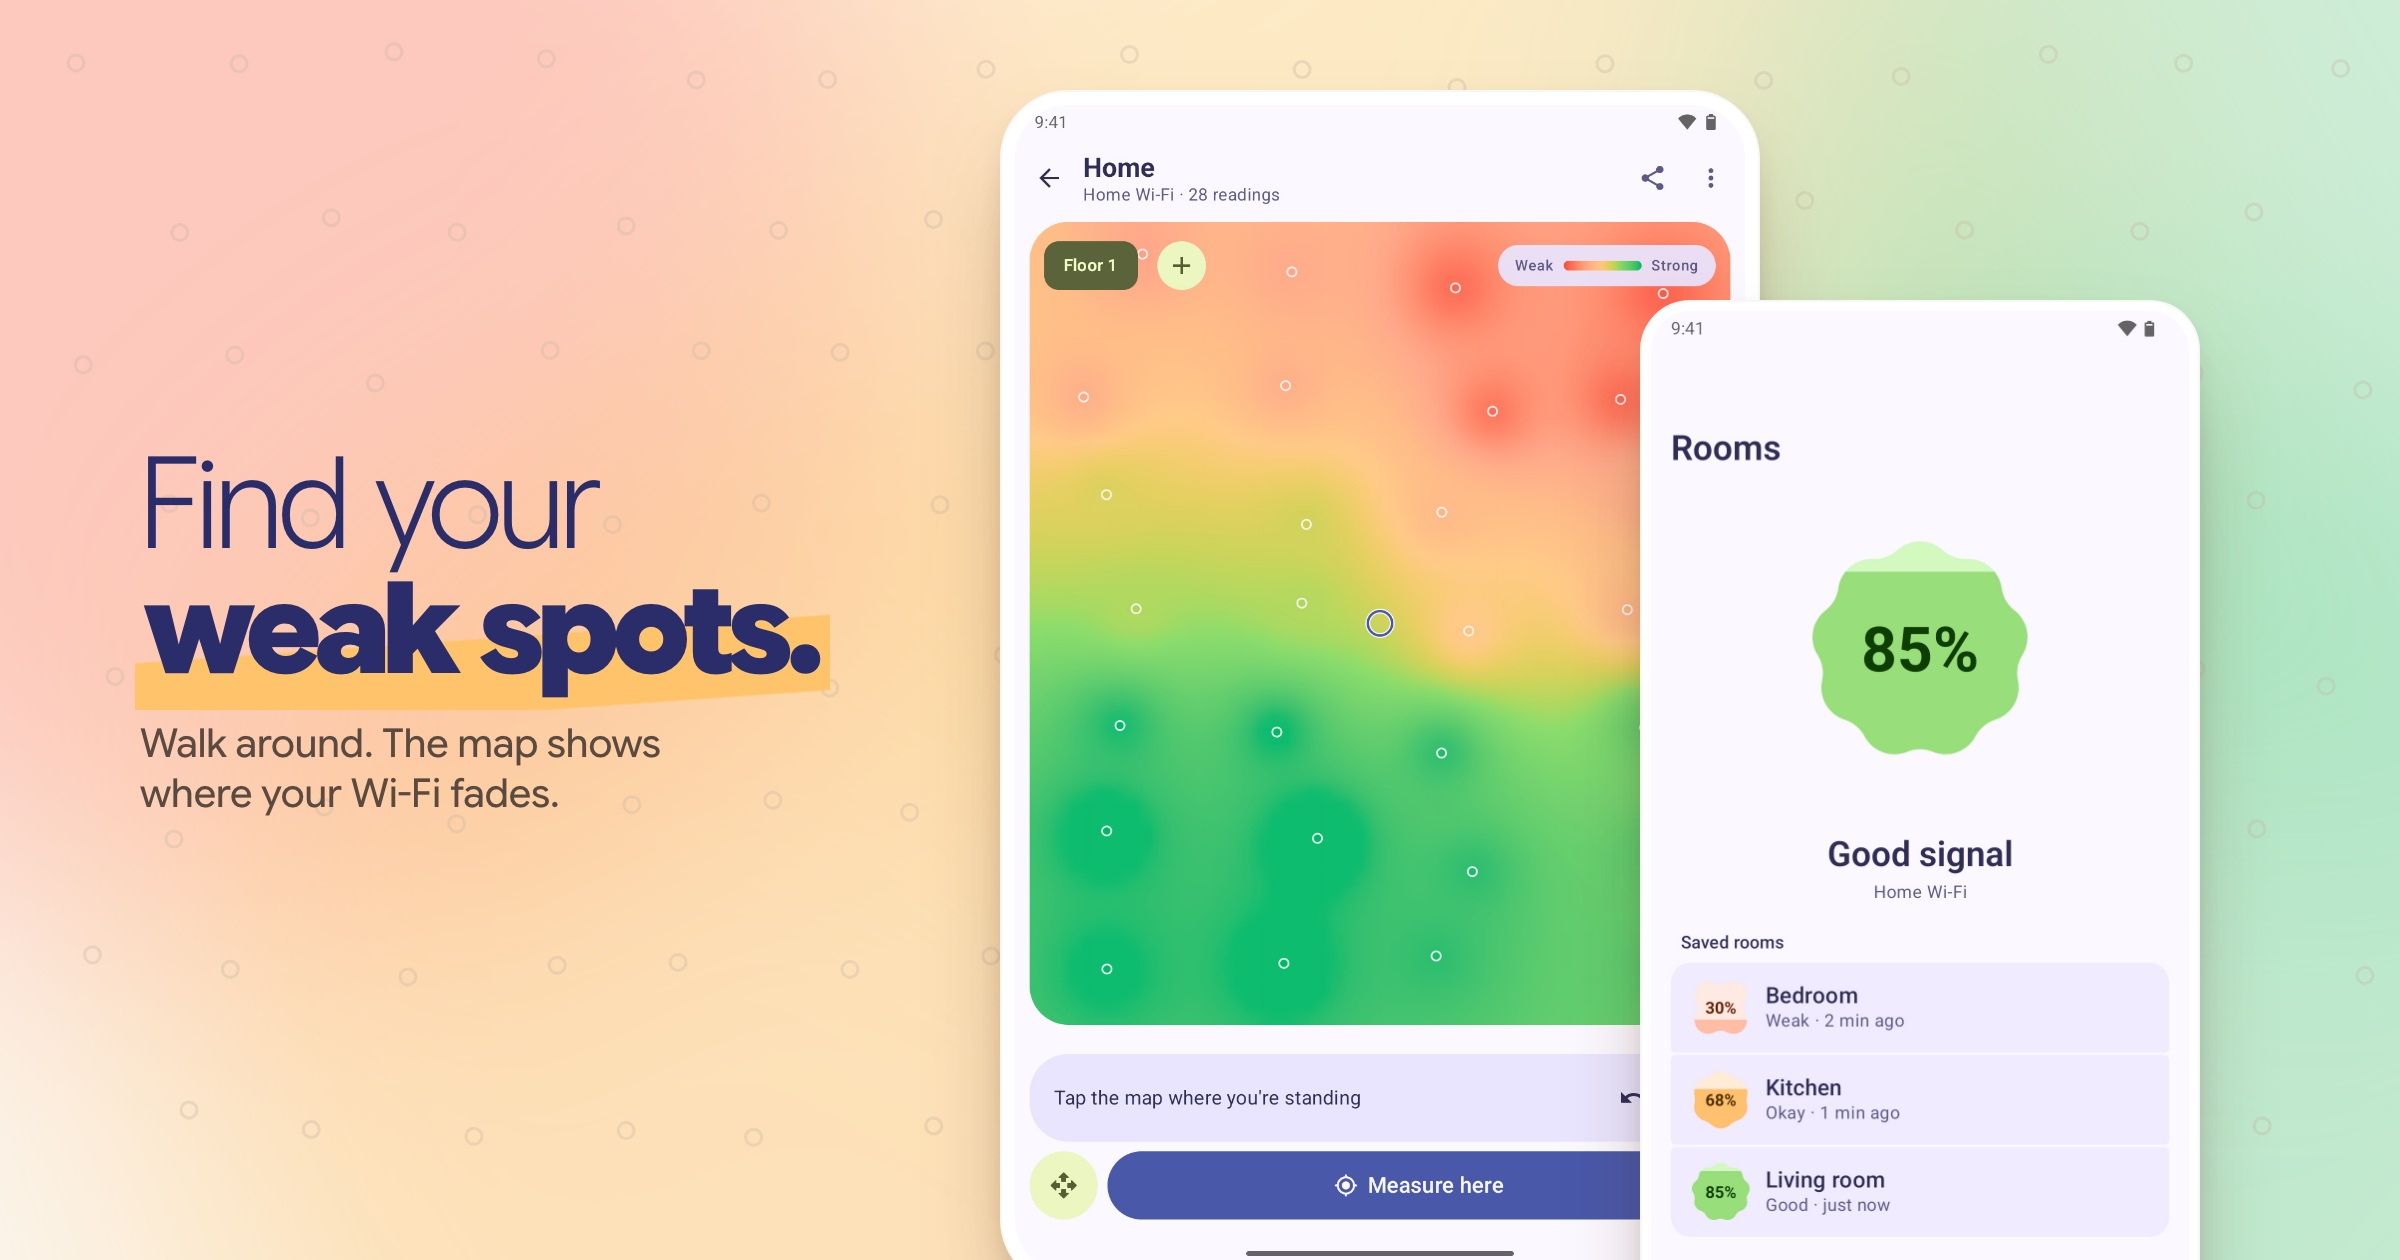
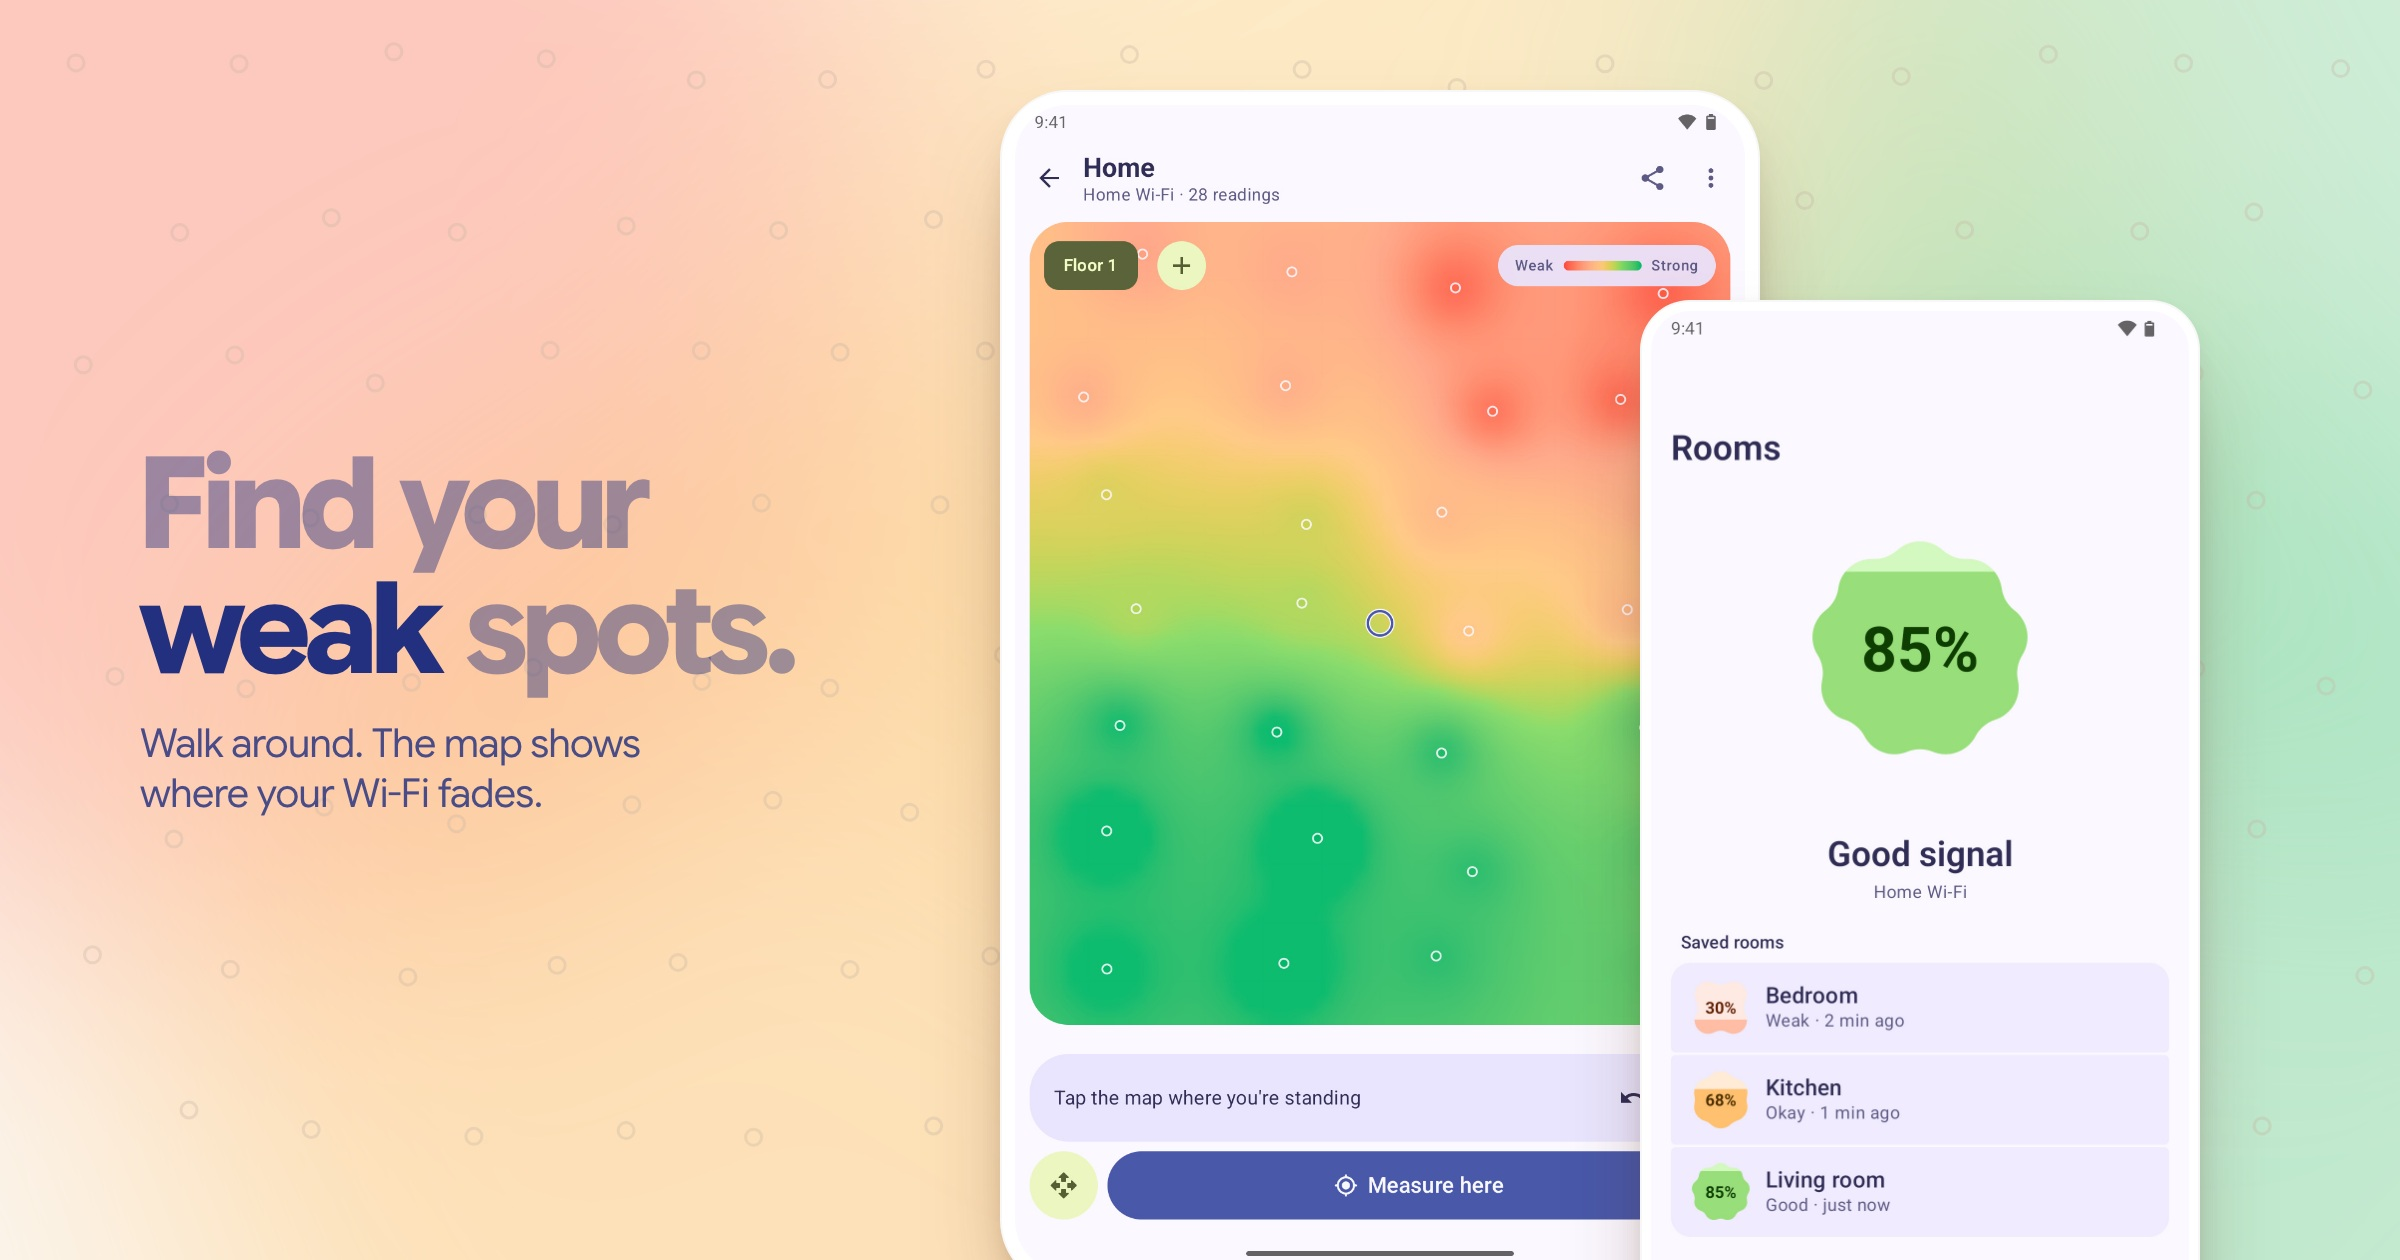
README art uses the store cards' two-tone ink headlines instead of the highlighter band
One type system everywhere: bold Google Sans Flex in royal ink, the lead-in tinted, the key words full ink, with
the highlight moving word to word. README tool labels match the Play copy.

Changed region(s): [[0.0312, 0.3405, 0.3438, 0.65]]

diff --git a/store-listing/theme.css b/store-listing/theme.css
@@ -43,18 +43,8 @@ header p{margin:26px 0 0;font-size:40px;line-height:1.24;font-weight:400;letter-
 .desktop header p{margin-top:16px;font-size:30px}
 .desktop .device{--bezel:0px;--radius:20px;left:220px;top:330px;width:1480px}
 
-/* README art keeps its light/heavy headline with a highlighter band. */
-.readme h1{font-size:128px;line-height:.98;letter-spacing:-.025em;font-weight:330;font-variation-settings:'opsz' 144}
-.readme{--ink:#2b2d6b}
-.readme header p{font-size:40px;line-height:1.25;font-weight:450;letter-spacing:0;max-width:820px;opacity:1}
-.readme h1 em{font-weight:820;letter-spacing:-.03em}
-.readme h1{color:var(--ink)}
-.readme h1 em,.readme .device-label em{font-style:normal;color:inherit;padding:0 .08em;margin:0 -.04em;
-  background:linear-gradient(176deg,transparent 54%,var(--hl,#ffc46b) 55%,var(--hl,#ffc46b) 90%,transparent 91%)}
-.readme .device{box-shadow:inset 0 0 0 2px #00000008,0 50px 100px -40px #5a321e99,0 14px 30px -14px #5a321e44}
-
-/* README art: the coverage-map field, dark ink copy, and the real app large. */
-.readme header p{color:#5b4a40;white-space:pre-line}
+/* README art: the coverage-map field, the real app large, and the same two-tone ink type as the store cards. */
+.readme header p{font-size:40px;line-height:1.25;white-space:pre-line}
 .readme .device{background:#ffffff;box-shadow:inset 0 0 0 2px #00000008,0 50px 100px -40px #5a321e99,0 14px 30px -14px #5a321e44}
 /* Hero: the headline on the left, the full coverage map on a portrait tablet, the room comparison in front. */
 .readme .hero header{left:140px;right:auto;top:0;bottom:0;width:800px;display:flex;flex-direction:column;justify-content:center}
@@ -72,7 +62,5 @@ header p{margin:26px 0 0;font-size:40px;line-height:1.24;font-weight:400;letter-
 .readme .trio .one{left:110px;top:400px}
 .readme .trio .two{left:890px;top:270px}
 .readme .trio .three{left:1670px;top:400px}
-.readme .trio .device-label{transform:translateY(calc(-100% - 28px));text-align:left;font-size:60px;line-height:1.1;font-weight:720;letter-spacing:-.03em;color:var(--ink)}
-.readme .trio .device-label.one{--hl:#ffc46b}
-.readme .trio .device-label.two{--hl:#8fe0b4}
-.readme .trio .device-label.three{--hl:#ff9e8c}
+.readme .trio .device-label{transform:translateY(calc(-100% - 28px));text-align:left;font-size:64px;line-height:1;font-weight:700;letter-spacing:-2px;word-spacing:4px;color:#22307f70}
+.readme .trio .device-label em{font-style:normal;color:var(--ink)}

diff --git a/store-listing/theme.js b/store-listing/theme.js
@@ -41,7 +41,6 @@ export default {
   },
 
   compose({main, index, kind, slide}) {
-    if (typeof slide.hl === 'string') main.style.setProperty('--hl', slide.hl);
     if (index === 0 && kind !== 'readme' && kind !== 'desktop') {
       main.classList.add('first');
       const brand = document.createElement('div');
